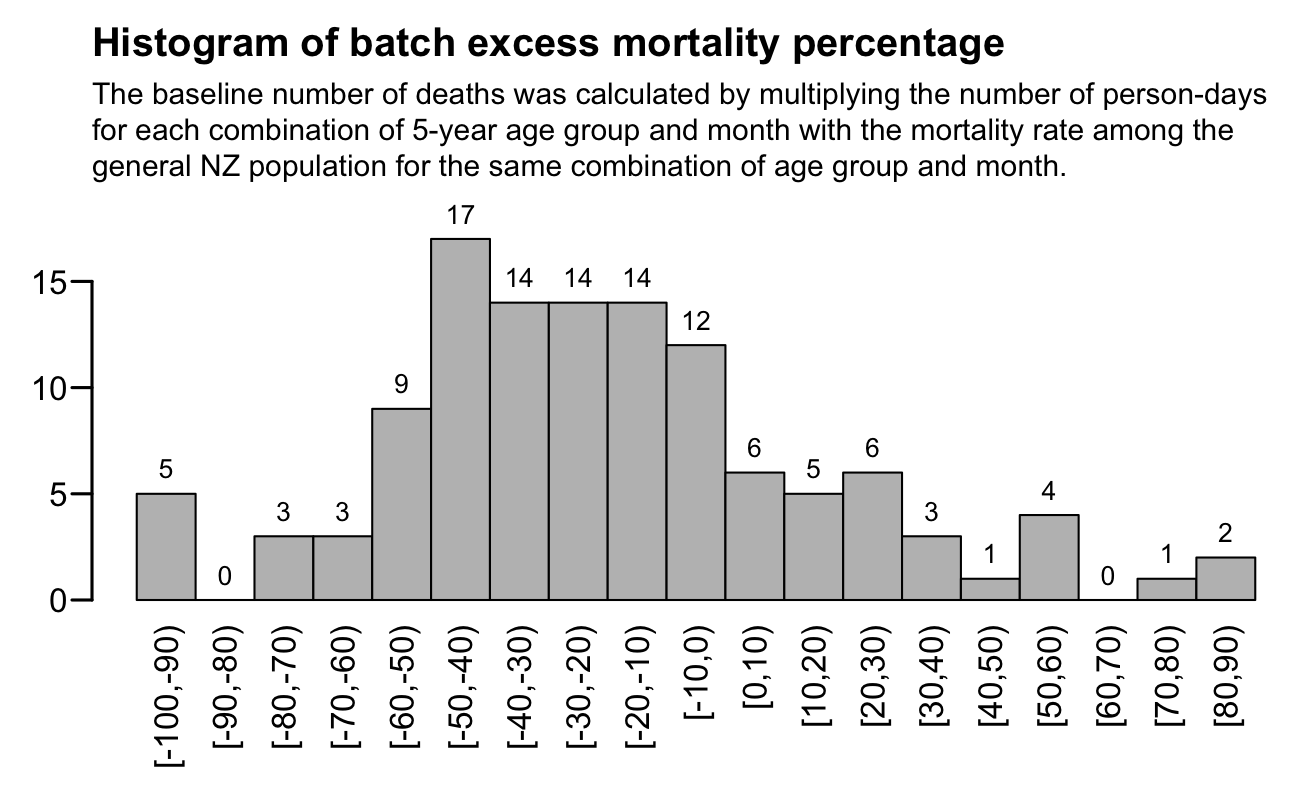
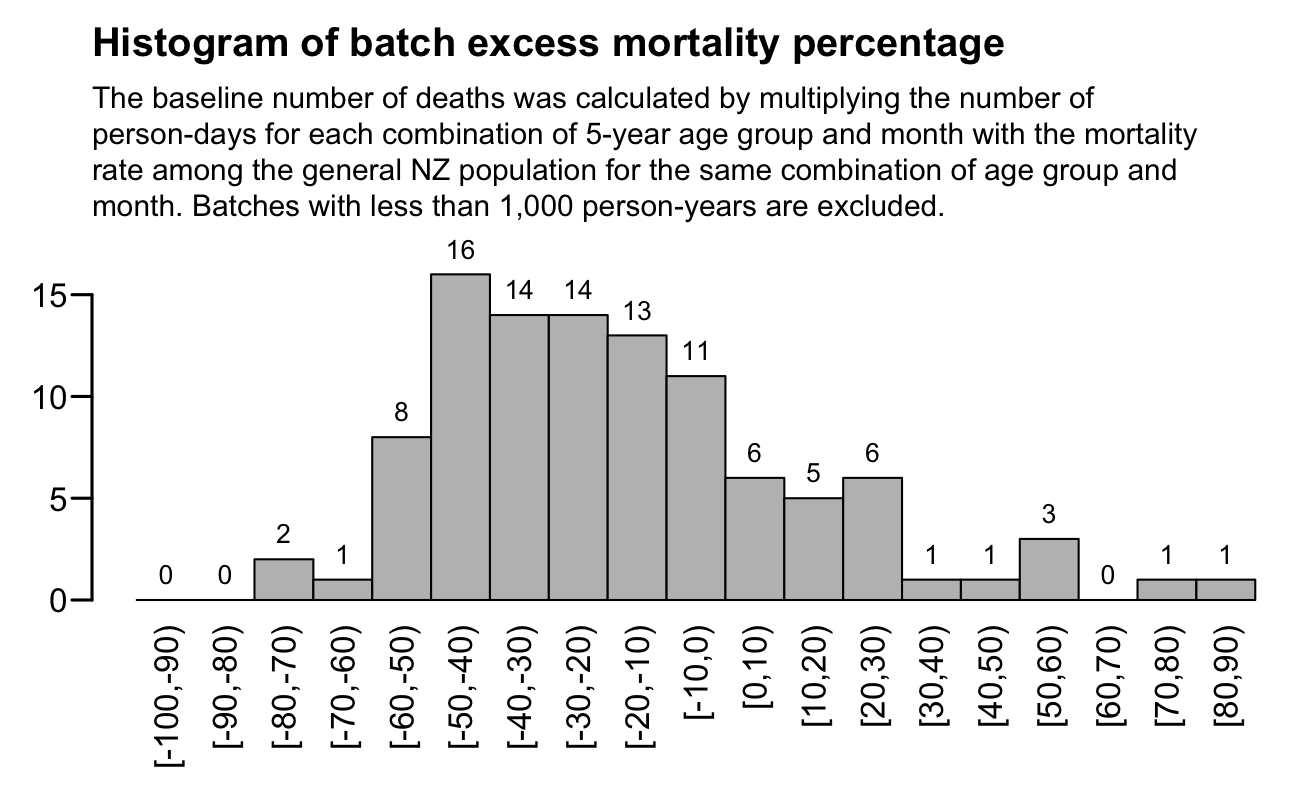
a

diff --git a/moar.html b/moar.html
@@ -8121,13 +8121,14 @@ age      38  34
 <p>And the lower bound of the 95% CI for ages 20-24 is between Kirsch's mortality rates for ages 15-19 and 25-29:</p>
 <pre>&gt; as.numeric(prop.test(129,227888)$conf)
 [1] 0.0004744636 0.0006748858</pre>
-<p>The distribution is skewed to the left because most batches have negative excess mortality, at least relative to a baseline of the whole NZ population during the same period or time:</p>
+<p>In histograms for batch mortality rate the distribution is skewed to the left because most batches have negative excess mortality (at least relative to a baseline of the whole NZ population during the same period or time):</p>
 <div class="width5">
 <img src="i/moar-batchyear-3.png">
 </div>
 <pre>library(data.table)
 
 b=fread(&quot;http://sars2.net/f/bucketsbatchkeep&quot;)
+b=b[batch%in%b[,.(sum(alive)/365),batch][V1&gt;=1e3,batch]]
 
 dead=fread(&quot;http://sars2.net/f/nz_monthly_deaths_by_age.csv&quot;)[ethnicity==&quot;Total&quot;&amp;year_reg&gt;=2021]
 dead=dead[,.(dead=sum(count)),.(month=sprintf(&quot;%d-%02d&quot;,year_reg,month_reg),age=as.integer(substr(age_group,1,2)))]
@@ -8147,12 +8148,12 @@ p=data.table(x=paste0(&quot;[&quot;,lev,&quot;,&quot;,lev+step,&quot;)&quot;),y=
 yend=max(p$y)*1.13
 p[,x:=factor(x,unique(x))]
 
-sub=&quot;The baseline number of deaths was calculated by multiplying the number of person-days for each combination of 5-year age group and month with the mortality rate among the general NZ population for the same combination of age group and month.&quot;|&gt;stringr::str_wrap(88)
+sub=&quot;The baseline number of deaths was calculated by multiplying the number of person-days for each combination of 5-year age group and month with the mortality rate among the general NZ population for the same combination of age group and month. Batches with less than 1,000 person-years are excluded.&quot;|&gt;stringr::str_wrap(84)
 
 png(&quot;1.png&quot;,1300,800,res=200)
-par(mar=c(5,2.3,4.8,0),mgp=c(0,0.6,0))
+par(mar=c(5,2.3,5.8,0),mgp=c(0,0.6,0))
 barx=barplot(p$y,names.arg=p$x,cex.main=1.1,xlab=NA,ylab=NA,lwd=1.5,las=2,space=0,ylim=c(0,yend))
-title(main=&quot;Histogram of batch excess mortality percentage&quot;,adj=0,line=3.4)
+title(main=&quot;Histogram of batch excess mortality percentage&quot;,adj=0,line=4.4,cex=.94)
 mtext(text=sub,side=3,line=.2,cex=.9,adj=0)
 text(x=barx,y=p$y-.01*yend,labels=p$y,pos=3,cex=0.8)
 dev.off()</pre>
